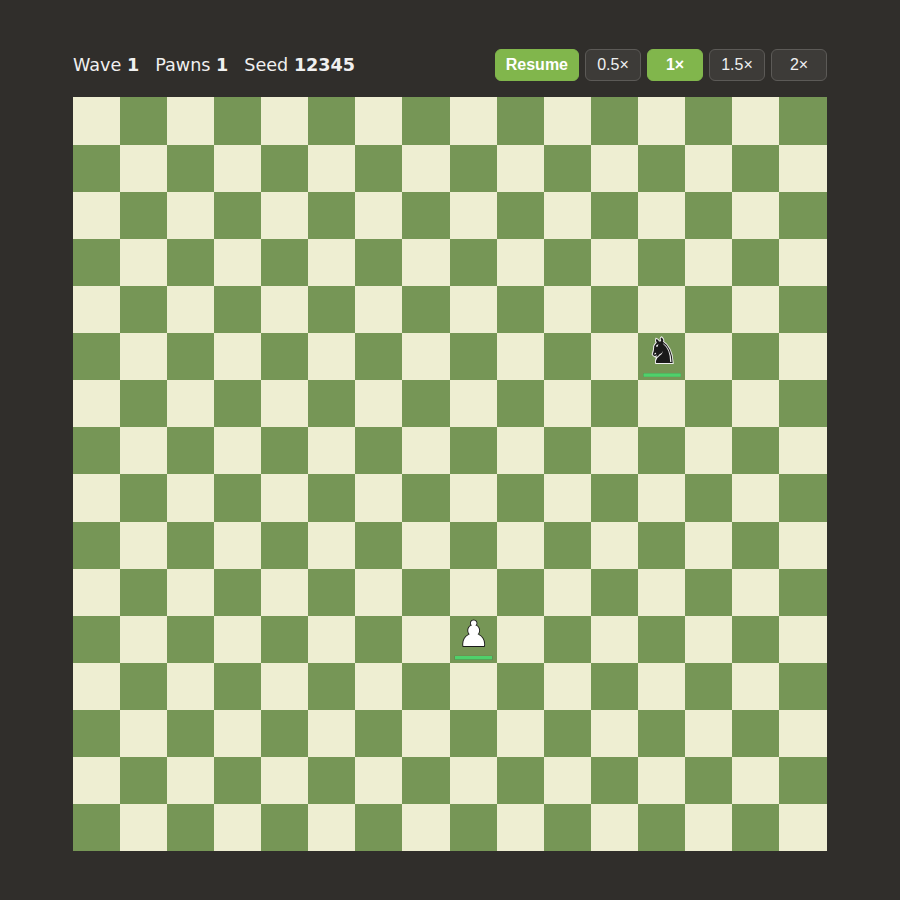
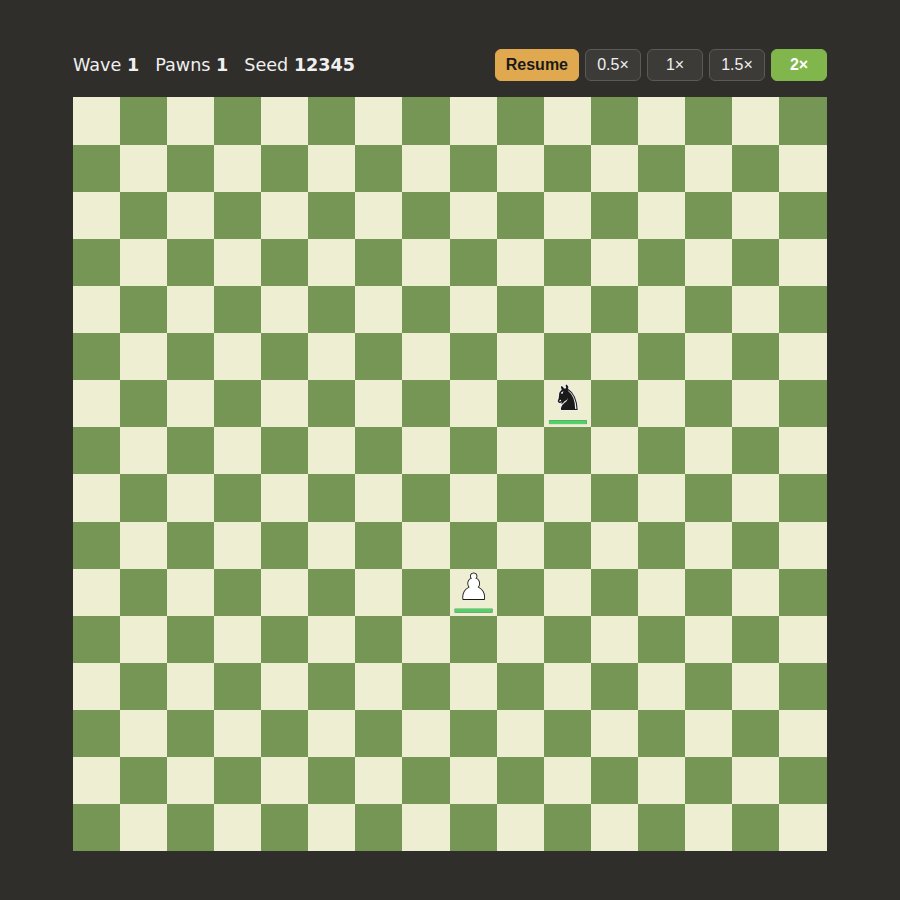
pawn-swarm: Address review of battle controls and HUD
- The clock reports its own pause and speed, so main.ts no longer keeps
  a second copy that had to be kept in step by hand.
- A new run starts unpaused (the speed carries over).
- The pressed pause button is amber, so it doesn't read as a speed.
- Add Speed and HUD to the glossary; tidy the clock tests.

Claude-Session: https://claude.ai/code/session_01NPQzNnqnzkH3tHGxCSNMtW

diff --git a/projects/pawn-swarm/tests/tick-clock.test.ts b/projects/pawn-swarm/tests/tick-clock.test.ts
@@ -1,16 +1,21 @@
 import { describe, expect, it } from "vitest";
 import { advanceRun, type RunState, startRun } from "../src/run/run";
-import { createTickClock, SPEEDS, type Speed } from "../src/tick-clock";
+import {
+  createTickClock,
+  SPEEDS,
+  type Speed,
+  type TickClock,
+} from "../src/tick-clock";
 
 const FRAME_MS = 16;
 
+function clockAt(maxTicksPerFrame = 100): TickClock {
+  return createTickClock({ tickMs: 250, startMs: 0, maxTicksPerFrame });
+}
+
 /** Plays a run the way the game loop does: frames of real time, ticks as the clock allows. */
 function playByClock(speed: Speed, pauseEveryFrames?: number): RunState {
-  const clock = createTickClock({
-    tickMs: 250,
-    startMs: 0,
-    maxTicksPerFrame: 5,
-  });
+  const clock = clockAt(5);
   clock.setSpeed(speed);
   let run = startRun({ seed: 7, boardSize: 16 });
   for (let frame = 1; frame < 100_000 && run.phase === "battle"; frame++) {
@@ -27,11 +32,7 @@ function playByClock(speed: Speed, pauseEveryFrames?: number): RunState {
 
 describe("tick clock", () => {
   it("makes one tick due per tick length at 1x", () => {
-    const clock = createTickClock({
-      tickMs: 250,
-      startMs: 0,
-      maxTicksPerFrame: 100,
-    });
+    const clock = clockAt();
     expect(clock.takeDueTicks(1000)).toBe(4);
   });
 
@@ -40,42 +41,34 @@ describe("tick clock", () => {
     [1.5, 6],
     [2, 8],
   ] as const)("at %sx makes %i ticks due in 1000 ms", (speed, ticks) => {
-    const clock = createTickClock({
-      tickMs: 250,
-      startMs: 0,
-      maxTicksPerFrame: 100,
-    });
+    const clock = clockAt();
     clock.setSpeed(speed);
     expect(clock.takeDueTicks(1000)).toBe(ticks);
   });
 
   it("applies a speed change only to time after it", () => {
-    const clock = createTickClock({
-      tickMs: 250,
-      startMs: 0,
-      maxTicksPerFrame: 100,
-    });
+    const clock = clockAt();
     expect(clock.takeDueTicks(375)).toBe(1); // 125 ms carried over at 1x
     clock.setSpeed(2);
     expect(clock.takeDueTicks(437.5)).toBe(1); // 125 + 62.5 * 2 = 250
   });
 
+  it("reports its speed and whether it is paused", () => {
+    const clock = clockAt();
+    expect(clock.state()).toEqual({ paused: false, speed: 1 });
+    clock.setSpeed(1.5);
+    clock.setPaused(true);
+    expect(clock.state()).toEqual({ paused: true, speed: 1.5 });
+  });
+
   it("makes no ticks due while paused", () => {
-    const clock = createTickClock({
-      tickMs: 250,
-      startMs: 0,
-      maxTicksPerFrame: 100,
-    });
+    const clock = clockAt();
     clock.setPaused(true);
     expect(clock.takeDueTicks(10_000)).toBe(0);
   });
 
   it("resumes where it paused, keeping the part-tick it had built up", () => {
-    const clock = createTickClock({
-      tickMs: 250,
-      startMs: 0,
-      maxTicksPerFrame: 100,
-    });
+    const clock = clockAt();
     expect(clock.takeDueTicks(200)).toBe(0);
     clock.setPaused(true);
     expect(clock.takeDueTicks(5000)).toBe(0);
@@ -85,11 +78,7 @@ describe("tick clock", () => {
   });
 
   it("caps the ticks of one frame and drops the rest of a long gap", () => {
-    const clock = createTickClock({
-      tickMs: 250,
-      startMs: 0,
-      maxTicksPerFrame: 5,
-    });
+    const clock = clockAt(5);
     expect(clock.takeDueTicks(60_000)).toBe(5); // a hidden tab for a minute
     expect(clock.takeDueTicks(60_250)).toBe(1);
   });

diff --git a/projects/pawn-swarm/src/main.ts b/projects/pawn-swarm/src/main.ts
@@ -6,9 +6,8 @@ import { ConfigError, loadConfig } from "./config";
 import { createConsoleLogger, logLevelFromQuery, type Logger } from "./logger";
 import { advanceRun, type RunState, startRun } from "./run/run";
 import { StartupError } from "./startup-error";
-import { createTickClock, type Speed } from "./tick-clock";
+import { createTickClock } from "./tick-clock";
 
-/** After a long gap (hidden tab) don't fast-forward through all of it in one frame. */
 const MAX_TICKS_PER_FRAME = 5;
 
 const logger = createConsoleLogger(logLevelFromQuery(window.location.search));
@@ -73,36 +72,36 @@ function start(): void {
   const hud = createHud(document);
   let run = beginRun(config.defaultSeed);
   hud.update(hudStatus(run));
-  const endScreen = createEndScreen(document, () => {
-    run = beginRun(randomSeed());
-    hud.update(hudStatus(run));
-    endScreen.hide();
-  });
-
   const clock = createTickClock({
     tickMs: config.tickMs,
     startMs: performance.now(),
     maxTicksPerFrame: MAX_TICKS_PER_FRAME,
   });
-  let paused = false;
-  let speed: Speed = 1;
+  const setPaused = (paused: boolean): void => {
+    clock.setPaused(paused);
+    controls.show(clock.state());
+    logger.info(paused ? "battle paused" : "battle resumed", {
+      tick: run.battle.tick,
+    });
+  };
   const controls = createBattleControls(document, {
     onTogglePause: () => {
-      paused = !paused;
-      clock.setPaused(paused);
-      controls.show({ paused, speed });
-      logger.info(paused ? "battle paused" : "battle resumed", {
-        tick: run.battle.tick,
-      });
+      setPaused(!clock.state().paused);
     },
-    onSpeed: (next) => {
-      speed = next;
+    onSpeed: (speed) => {
       clock.setSpeed(speed);
-      controls.show({ paused, speed });
+      controls.show(clock.state());
       logger.info("battle speed set", { speed, tick: run.battle.tick });
     },
   });
-  controls.show({ paused, speed });
+  controls.show(clock.state());
+  const endScreen = createEndScreen(document, () => {
+    run = beginRun(randomSeed());
+    hud.update(hudStatus(run));
+    // The speed carries over to the next run; a pause doesn't.
+    if (clock.state().paused) setPaused(false);
+    endScreen.hide();
+  });
 
   // Ticks run on game time, not frames: each frame runs however many ticks are due.
   // Only the clock knows the speed, so the same seed plays the same ticks at any speed.

diff --git a/projects/pawn-swarm/src/adapters/dom-ui/battle-controls.ts b/projects/pawn-swarm/src/adapters/dom-ui/battle-controls.ts
@@ -1,10 +1,5 @@
-import { SPEEDS, type Speed } from "../../tick-clock";
+import { SPEEDS, type Speed, type TickClockState } from "../../tick-clock";
 import { requireElement } from "./require-element";
-
-export interface BattleControlsState {
-  readonly paused: boolean;
-  readonly speed: Speed;
-}
 
 export interface BattleControlsActions {
   onTogglePause(): void;
@@ -12,10 +7,10 @@ export interface BattleControlsActions {
 }
 
 export interface BattleControls {
-  show(state: BattleControlsState): void;
+  show(state: TickClockState): void;
 }
 
-/** Pause and speed buttons. They report clicks; the entrypoint owns the state and passes it back to `show`. */
+/** Pause and speed buttons. They report clicks; the clock owns the state and the entrypoint passes it back to `show`. */
 export function createBattleControls(
   root: Document,
   actions: BattleControlsActions,

diff --git a/projects/pawn-swarm/src/tick-clock.ts b/projects/pawn-swarm/src/tick-clock.ts
@@ -11,6 +11,11 @@ export interface TickClockSetup {
   readonly maxTicksPerFrame: number;
 }
 
+export interface TickClockState {
+  readonly paused: boolean;
+  readonly speed: Speed;
+}
+
 export interface TickClock {
   /** Returns how many ticks are due at `nowMs` and counts them as taken. */
   takeDueTicks(nowMs: number): number;
@@ -18,6 +23,7 @@ export interface TickClock {
   setSpeed(speed: Speed): void;
   /** While paused no time builds up, so resuming carries on from the same point. */
   setPaused(paused: boolean): void;
+  state(): TickClockState;
 }
 
 /** Turns real time into battle ticks. It never touches battle state, so it can't change a result. */
@@ -45,5 +51,6 @@ export function createTickClock(setup: TickClockSetup): TickClock {
     setPaused: (next) => {
       paused = next;
     },
+    state: () => ({ paused, speed }),
   };
 }

diff --git a/projects/pawn-swarm/index.html b/projects/pawn-swarm/index.html
@@ -66,6 +66,12 @@
       #pause {
         min-width: 5.5rem;
       }
+      /* Amber, not the speed green, so "paused" doesn't read as a fifth speed. */
+      #battle-controls #pause[aria-pressed="true"] {
+        border-color: #e0a84f;
+        background: #e0a84f;
+        color: #1a1a1a;
+      }
       #end-screen {
         position: fixed;
         inset: 0;

diff --git a/projects/pawn-swarm/docs/tickets/03-battle-controls-and-hud.md b/projects/pawn-swarm/docs/tickets/03-battle-controls-and-hud.md
@@ -4,11 +4,11 @@
 
 **Blocked by:** 02
 
-**Status:** ready
+**Status:** done
 
 **Touches:** adapters/dom-ui, entrypoint
 
-- [ ] Speed buttons change real time per tick without changing battle results (same seed, same outcome at every speed)
-- [ ] Pause stops ticks; resume continues from the same state
-- [ ] HUD shows wave, white pawn count and seed, updated every tick
-- [ ] Screenshot of the HUD in the PR
+- [x] Speed buttons change real time per tick without changing battle results (same seed, same outcome at every speed)
+- [x] Pause stops ticks; resume continues from the same state
+- [x] HUD shows wave, white pawn count and seed, updated every tick
+- [x] Screenshot of the HUD in the PR

diff --git a/projects/pawn-swarm/GLOSSARY.md b/projects/pawn-swarm/GLOSSARY.md
@@ -14,6 +14,12 @@ One battle against a set of black pieces. A run has 10.
 One step of the battle simulation.
 _Avoid_: frame, turn
 
+**Speed**:
+How many ticks run per tick length of real time: 0.5×, 1×, 1.5× or 2×. Changes how fast a battle plays, never how it ends.
+
+**HUD**:
+The bar above the board during a battle: wave, pawn count (the army's size), seed, pause and speed buttons.
+
 **Army**:
 All white pawns the player owns.
 
